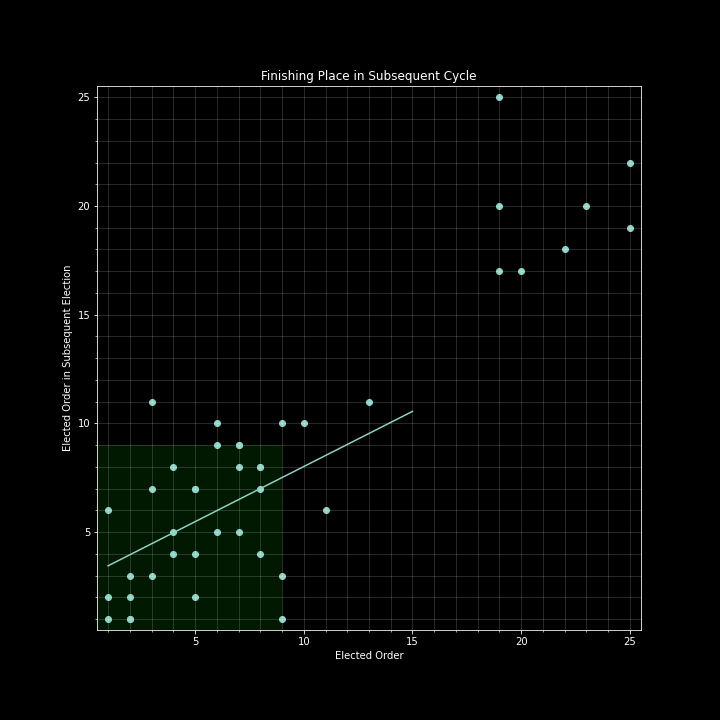
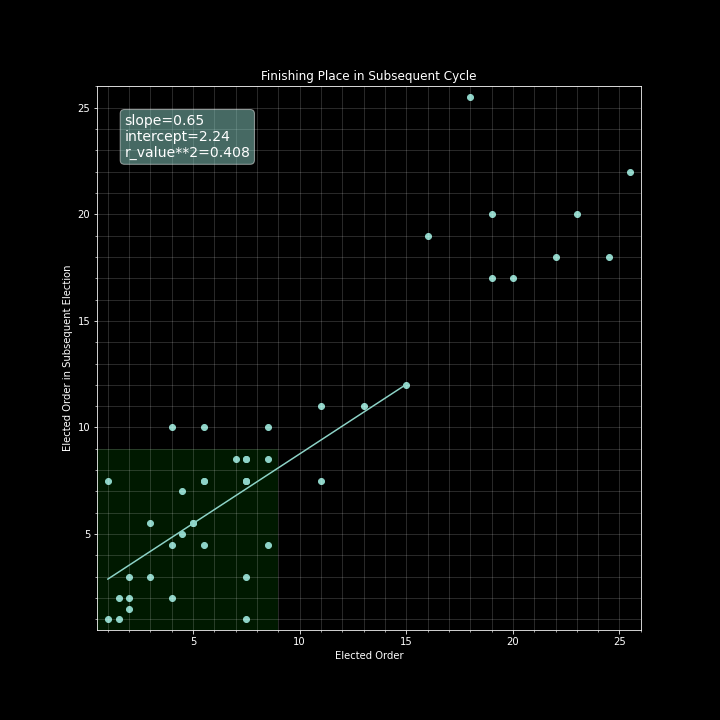
election-election plot improvements

diff --git a/cambridge.py b/cambridge.py
@@ -213,85 +213,85 @@ for folder in folders:
 
 # %% Election-Election Placing
 
-print('Election to election finishing order')
-placeDf = pd.DataFrame()
+# print('Election to election finishing order')
+# placeDf = pd.DataFrame()
 
-for folder in folders:
-    files = os.listdir(folder + '/')
-    finalRound = max([int(sub.split('.')[0][5:]) for sub in files])
-    file = 'Round' + str(finalRound) + '.txt'
-    print(file)
+# for folder in folders:
+#     files = os.listdir(folder + '/')
+#     finalRound = max([int(sub.split('.')[0][5:]) for sub in files])
+#     file = 'Round' + str(finalRound) + '.txt'
+#     print(file)
 
-    roundResults = pd.read_csv(folder + '/' + file, sep='	')
+#     roundResults = pd.read_csv(folder + '/' + file, sep='	')
 
-    year = folder[4:8]
-    roundResults['Place_' + folder[4:8]] = roundResults.index + 1
+#     year = folder[4:8]
+#     roundResults['Place_' + folder[4:8]] = roundResults.index + 1
 
-    roundResults = roundResults[roundResults['CANDIDATE '].str.contains(
-        'EXHAUSTED') == False]
-    roundResults = roundResults[roundResults['CANDIDATE '].str.contains(
-        'Write') == False]
+#     roundResults = roundResults[roundResults['CANDIDATE '].str.contains(
+#         'EXHAUSTED') == False]
+#     roundResults = roundResults[roundResults['CANDIDATE '].str.contains(
+#         'Write') == False]
 
-    roundResults.drop(
-        columns=['THIS ROUND ', 'TOTAL ', 'STATUS'], inplace=True)
+#     roundResults.drop(
+#         columns=['THIS ROUND ', 'TOTAL ', 'STATUS'], inplace=True)
 
-    roundResults.set_index('CANDIDATE ', inplace=True)
+#     roundResults.set_index('CANDIDATE ', inplace=True)
 
-    placeDf = placeDf.merge(roundResults, how='outer',
-                            left_index=True, right_index=True)
+#     placeDf = placeDf.merge(roundResults, how='outer',
+#                             left_index=True, right_index=True)
 
 
 # %% Plot
 
-x = 'Year 0'
-y = 'Year +2'
+# x = 'Year 0'
+# y = 'Year +2'
 
-yearCompare = pd.DataFrame(columns=[x, y])
-for year in range(placeDf.shape[1]):
-    if year < placeDf.shape[1] - 1:
+# yearCompare = pd.DataFrame(columns=[x, y])
+# for year in range(placeDf.shape[1]):
+#     if year < placeDf.shape[1] - 1:
 
-        adjacentYear = placeDf.iloc[:, year:year+2]
-        adjacentYear.columns = [x, y]
-        yearCompare = yearCompare.append(adjacentYear, ignore_index=True)
-        # yearCompare = pd.concat(yearCompare, adjacentYear, ignore_index=True)
+#         adjacentYear = placeDf.iloc[:, year:year+2]
+#         adjacentYear.columns = [x, y]
+#         yearCompare = yearCompare.append(adjacentYear, ignore_index=True)
+#         # yearCompare = pd.concat(yearCompare, adjacentYear, ignore_index=True)
 
-yearCompare.dropna(inplace=True)
-maxPlace = yearCompare.max().max()
+# yearCompare.dropna(inplace=True)
+# maxPlace = yearCompare.max().max()
 
-# Filter to contenders
-contenderMax = 15
-yearContender = yearCompare[(yearCompare['Year 0'] < contenderMax) & (
-    yearCompare['Year +2'] < contenderMax)]
+# # Filter to contenders
+# contenderMax = 15
+# yearContender = yearCompare[(yearCompare['Year 0'] < contenderMax) & (
+#     yearCompare['Year +2'] < contenderMax)]
 
-fig, ax = plt.subplots(1, 1, figsize=(10, 10), sharex=True)
+# fig, ax = plt.subplots(1, 1, figsize=(10, 10), sharex=True)
 
-# Highlight Election Winners
-winBox = [Rectangle((0, 0), 9, 9)]
-ax.add_collection(PatchCollection(
-    winBox, facecolor='g', alpha=0.2, edgecolor='None'))
+# # Highlight Election Winners
+# winBox = [Rectangle((0, 0), 9, 9)]
+# ax.add_collection(PatchCollection(
+#     winBox, facecolor='g', alpha=0.2, edgecolor='None'))
 
-ax.grid(which='both', alpha=0.2)
-ax.minorticks_on()
+# ax.grid(which='both', alpha=0.2)
+# ax.minorticks_on()
 
-# Plot finishes
-ax.scatter(yearCompare[x], yearCompare[y])
+# # Plot finishes
+# ax.scatter(yearCompare[x], yearCompare[y])
 
-# Add linear fit (of only contenders)
-xs = np.arange(1, contenderMax + 1)
-coefs = poly.polyfit(yearContender[x], yearContender[y], 1)
-ffit = poly.polyval(xs, coefs)
-ax.plot(xs, ffit)
-slope, intercept, r_value, p_value, std_err = stats.linregress(
-    yearContender[x], yearContender[y])
-print(f'{slope=:0.2f}\n{intercept=:0.2f}\n{r_value**2=:0.3f}\n')
+# # Add linear fit (of only contenders)
+# xs = np.arange(1, contenderMax + 1)
+# coefs = poly.polyfit(yearContender[x], yearContender[y], 1)
+# ffit = poly.polyval(xs, coefs)
+# ax.plot(xs, ffit)
+# slope, intercept, r_value, p_value, std_err = stats.linregress(
+#     yearContender[x], yearContender[y])
+# print(f'{slope=:0.2f}\n{intercept=:0.2f}\n{r_value**2=:0.3f}\n')
 
 
-title = 'Finishing Place in Subsequent Cycle'
-ax.set_title(title)
-ax.set_xlabel('Elected Order')
-ax.set_ylabel('Elected Order in Subsequent Election')
-ax.set_xlim(0.5, maxPlace + 0.5)
-ax.set_ylim(0.5, maxPlace + 0.5)
-ax.set_aspect('equal', adjustable='box')
+# title = 'Finishing Place in Subsequent Cycle'
+# ax.set_title(title)
+# ax.set_xlabel('Elected Order')
+# ax.set_ylabel('Elected Order in Subsequent Election')
+# ax.set_xlim(0.5, maxPlace + 0.5)
+# ax.set_ylim(0.5, maxPlace + 0.5)
+# ax.set_aspect('equal', adjustable='box')
 
-fig.savefig(outputFolder + title + '.png')
+# fig.savefig(outputFolder + title + '.png')

diff --git a/plot_results.py b/plot_results.py
@@ -1,0 +1,154 @@
+# -*- coding: utf-8 -*-
+"""
+Created on Tue Sep 19 19:40:44 2023
+
+@author: Scott
+"""
+# %% Initialize
+import numpy as np
+import pandas as pd
+import numpy.polynomial.polynomial as poly
+import scipy.stats as stats
+
+import matplotlib.pyplot as plt
+from matplotlib.lines import Line2D
+from matplotlib.collections import PatchCollection
+from matplotlib.patches import Rectangle
+
+plt.style.use('dark_background')
+
+outputFolder = 'cambOutputs/'
+
+# %% Import Data
+
+x = 'Election'
+y = 'Following_Election'
+
+years = [2013, 2015, 2017, 2019, 2021]
+summaryCols = ['Elected', 'InitialPercentage', 'Place']
+
+results = []
+allResults = pd.DataFrame()
+
+# Import data and combine
+for year in years:
+    print(year)
+    colsYear = [f'{col}_{year}' for col in summaryCols]
+    df = pd.read_csv(f'cambOutputs/{year}_summary.csv',
+                     index_col=0)
+    df = df[summaryCols]
+    df.columns = colsYear
+
+    results.append(df)
+    allResults = pd.concat([allResults, df], axis=1)
+
+# Create subsetss of data that compare subsequent years
+# ipHistory = pd.DataFrame()
+# placeHistory = pd.DataFrame()
+adjacentElection = pd.DataFrame()
+maxPlace = 0
+for i in range(len(years)-1):
+    compareCols = [f'InitialPercentage_{years[i]}', f'InitialPercentage_{years[i+1]}',
+                   f'Place_{years[i]}', f'Place_{years[i+1]}']
+    adjElect = allResults[compareCols].dropna()
+    adjElect.columns = [f'InitialPercentage_{x}', f'InitialPercentage_{y}',
+                        f'Place_{x}', f'Place_{y}']
+    adjElect.reset_index(drop=True, inplace=True)
+
+    adjacentElection = pd.concat([adjacentElection, adjElect])
+
+    maxPlace = max(
+        maxPlace, allResults[[f'Place_{years[i]}', f'Place_{years[i+1]}']].max(axis=None))
+
+
+# %% Create plots
+
+# Filter to contenders
+contenderMax = 15
+adjacentContenders = adjacentElection[(adjacentElection[f'Place_{x}'] < contenderMax) & (
+    adjacentElection[f'Place_{y}'] < contenderMax)]
+
+xRegressPlace = np.arange(1, contenderMax + 1)
+xRegressPercent = np.linspace(adjacentContenders[f'InitialPercentage_{x}'].min(
+), adjacentContenders[f'InitialPercentage_{x}'].max(), num=10)
+
+maxInitialPercent = max(adjacentContenders[f'InitialPercentage_{x}'].max(
+), adjacentContenders[f'InitialPercentage_{y}'].max())
+
+
+def plot_results(axis, xCol, yCol, regressArrange):
+
+    axis.grid(which='both', alpha=0.2)
+    axis.minorticks_on()
+
+    # Plot finishes
+    axis.scatter(adjacentElection[xCol], adjacentElection[yCol])
+
+    # Add linear fit (of only contenders)
+    xs = regressArrange
+    coefs = poly.polyfit(adjacentContenders[xCol], adjacentContenders[yCol], 1)
+    ffit = poly.polyval(xs, coefs)
+    axis.plot(xs, ffit)
+    slope, intercept, r_value, p_value, std_err = stats.linregress(
+        adjacentContenders[xCol], adjacentContenders[yCol])
+
+    regressStr = f'{slope=:0.2f}\n{intercept=:0.2f}\n{r_value**2=:0.3f}'
+
+    # these are matplotlib.patch.Patch properties
+    props = dict(boxstyle='round', alpha=0.5)
+
+    # place a text box in upper left in axes coords
+    axis.text(0.05, 0.95, regressStr, transform=axis.transAxes, fontsize=14,
+              verticalalignment='top', bbox=props)
+
+
+# Place vs Place
+title1 = 'Finishing Place in Subsequent Cycle'
+fig1, ax1 = plt.subplots(1, 1, figsize=(10, 10), sharex=True)
+
+ax1.set_title(title1)
+ax1.set_xlabel('Elected Order')
+ax1.set_ylabel('Elected Order in Subsequent Election')
+
+ax1.set_xlim(0.5, maxPlace + 0.5)
+ax1.set_ylim(0.5, maxPlace + 0.5)
+ax1.set_aspect('equal', adjustable='box')
+
+# Highlight Election Winners
+winBox = [Rectangle((0, 0), 9, 9)]
+ax1.add_collection(PatchCollection(
+    winBox, facecolor='g', alpha=0.2, edgecolor='None'))
+
+plot_results(ax1, f'Place_{x}', f'Place_{y}', xRegressPlace)
+
+# Percent vs Percent
+title2 = 'First Round Percentage of Threshold in Subsequent Cycle'
+fig2, ax2 = plt.subplots(1, 1, figsize=(10, 10), sharex=True)
+
+ax2.set_title(title2)
+ax2.set_xlabel('First Round Percentage of Threshold')
+ax2.set_ylabel('First Round Percentage of Threshold in Subsequent Election')
+
+ax2.set_xlim(0, maxInitialPercent * 1.1)
+ax2.set_ylim(0, maxInitialPercent * 1.1)
+ax2.set_aspect('equal', adjustable='box')
+
+plot_results(ax2, f'InitialPercentage_{x}', f'InitialPercentage_{y}', xRegressPercent)
+
+# Percent vs Place
+title3 = 'First Round Percentage of Threshold vs. Finish in Subsequent Cycle'
+fig3, ax3 = plt.subplots(1, 1, figsize=(10, 10), sharex=True)
+
+ax3.set_title(title3)
+ax3.set_xlabel('First Round Percentage of Threshold')
+ax3.set_ylabel('Elected Order in Subsequent Election')
+
+ax3.set_xlim(0, maxInitialPercent * 1.1)
+ax3.set_ylim(0.5, maxPlace + 0.5)
+
+plot_results(ax3, f'InitialPercentage_{x}', f'Place_{y}', xRegressPercent)
+
+# Save Plots
+fig1.savefig(outputFolder + title1 + '.png')
+fig2.savefig(outputFolder + title2 + '.png')
+fig3.savefig(outputFolder + title3 + '.png')
